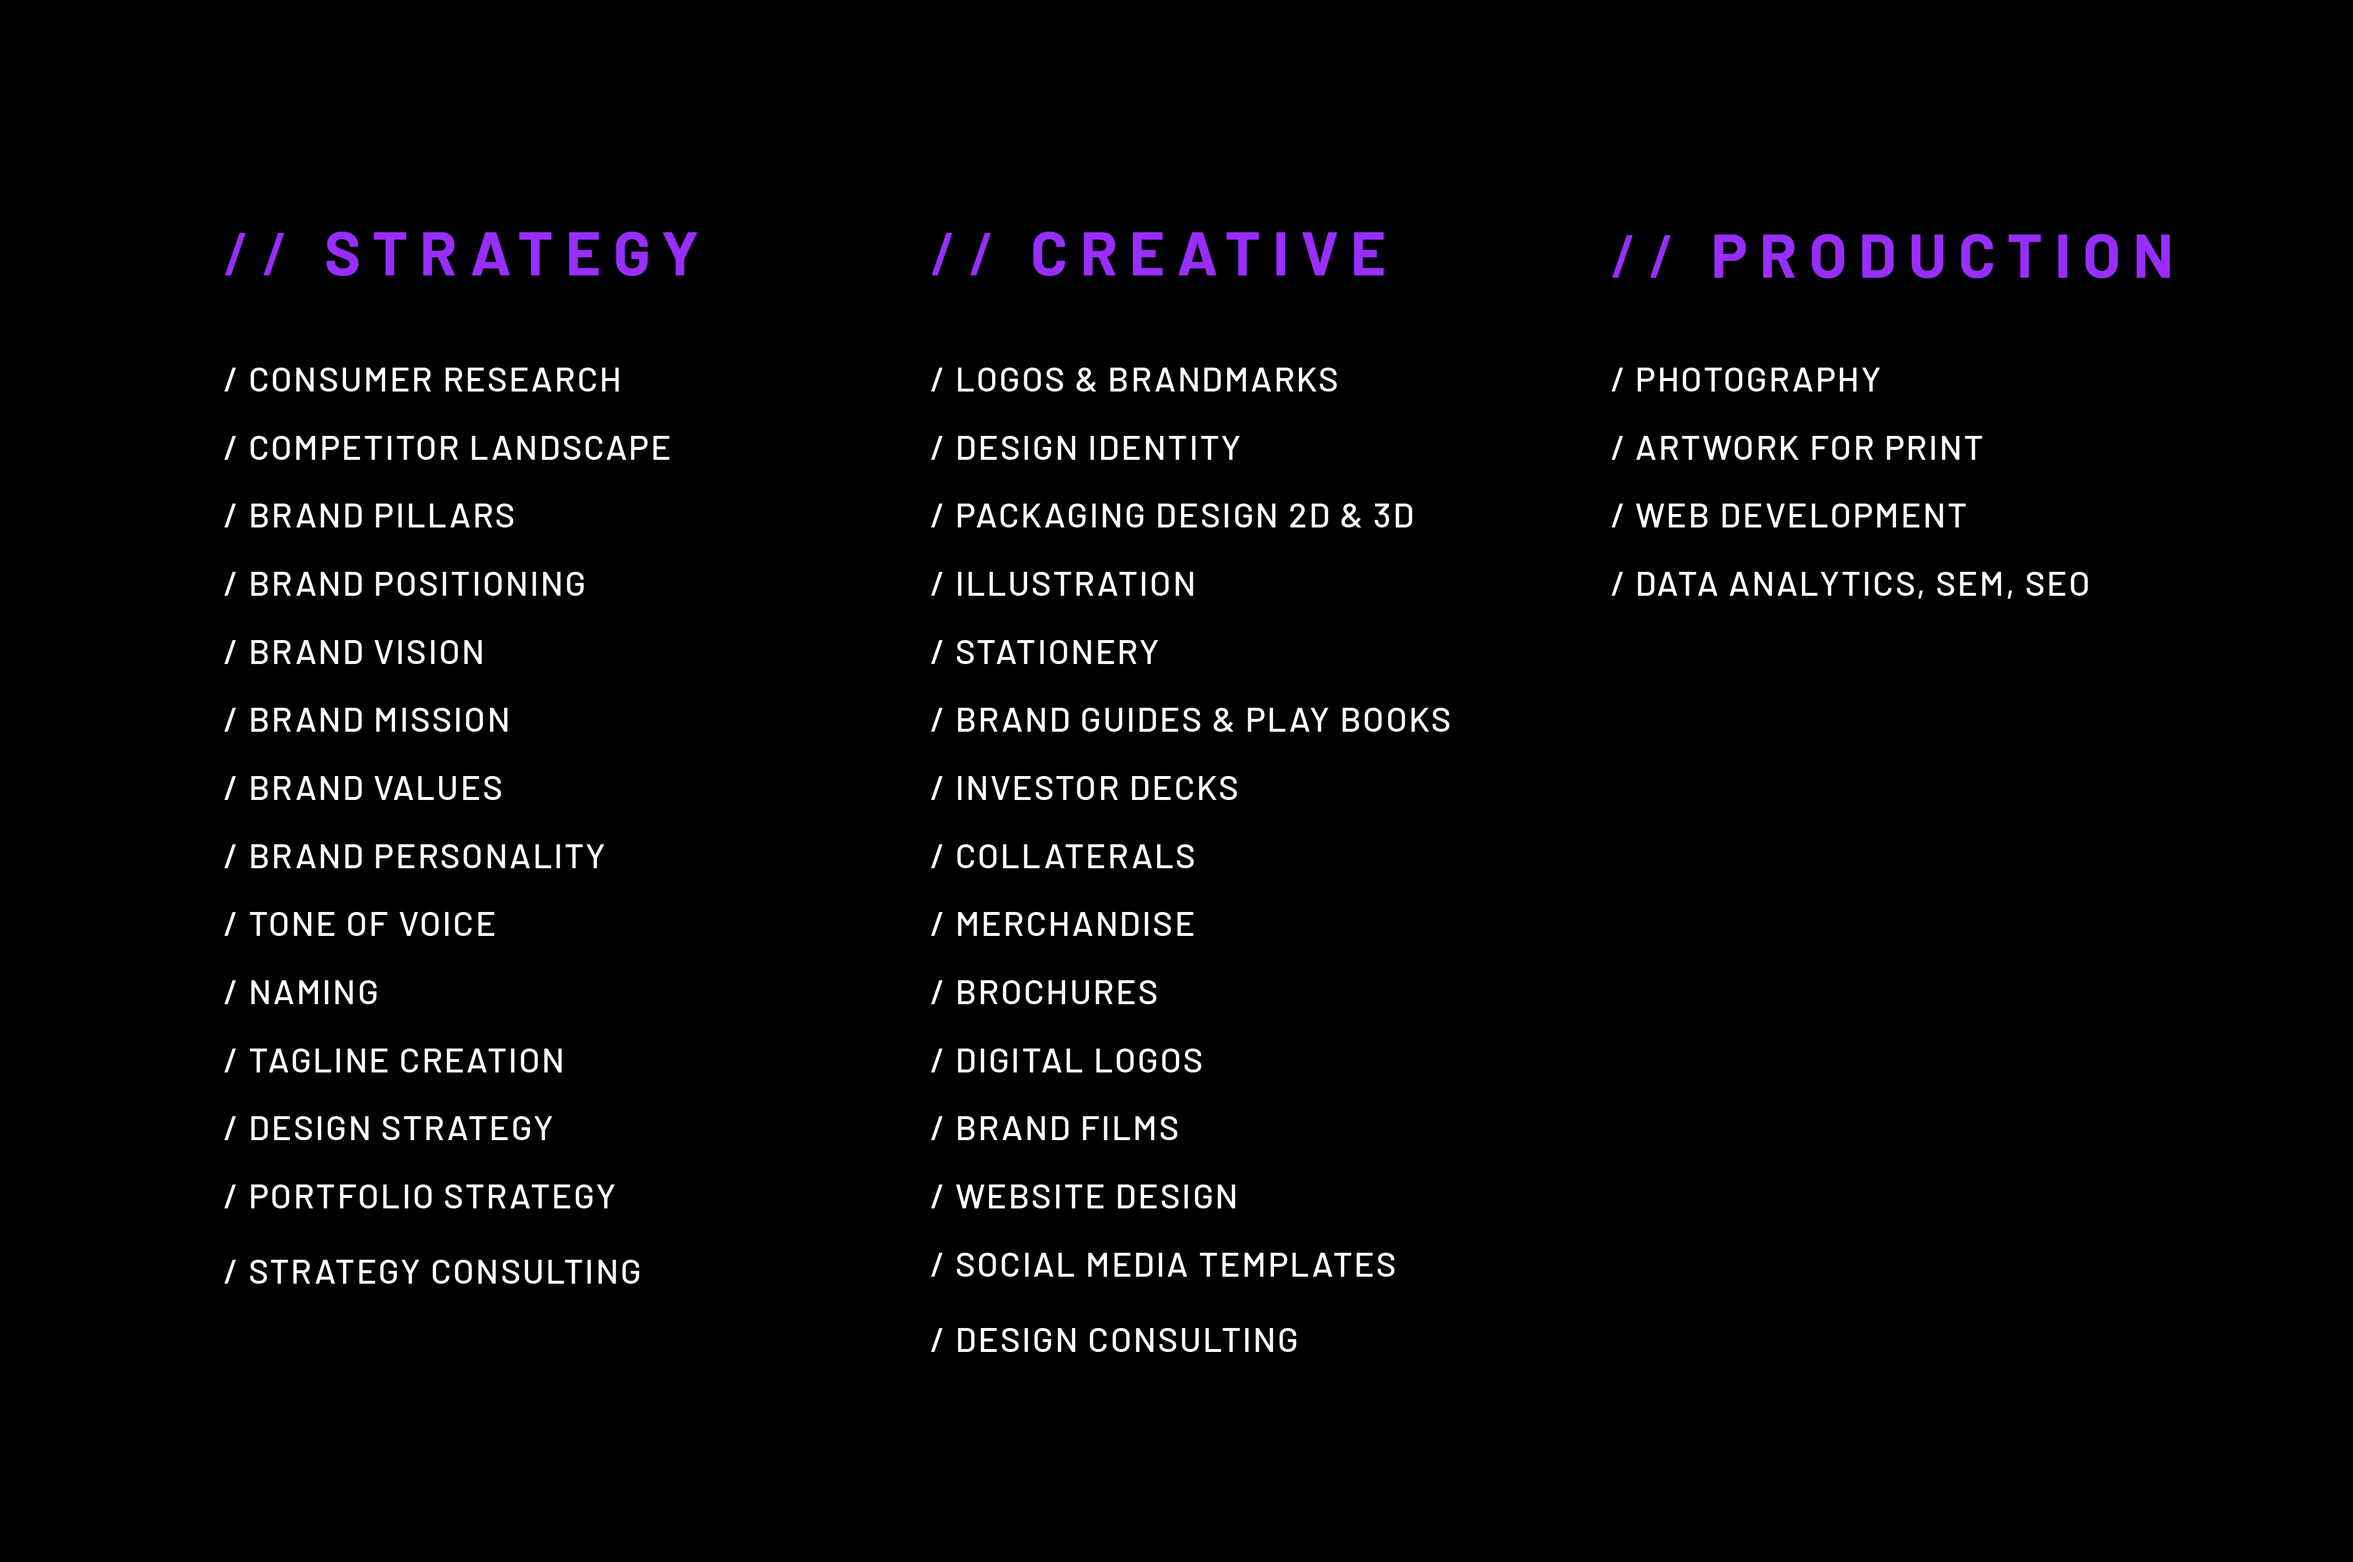
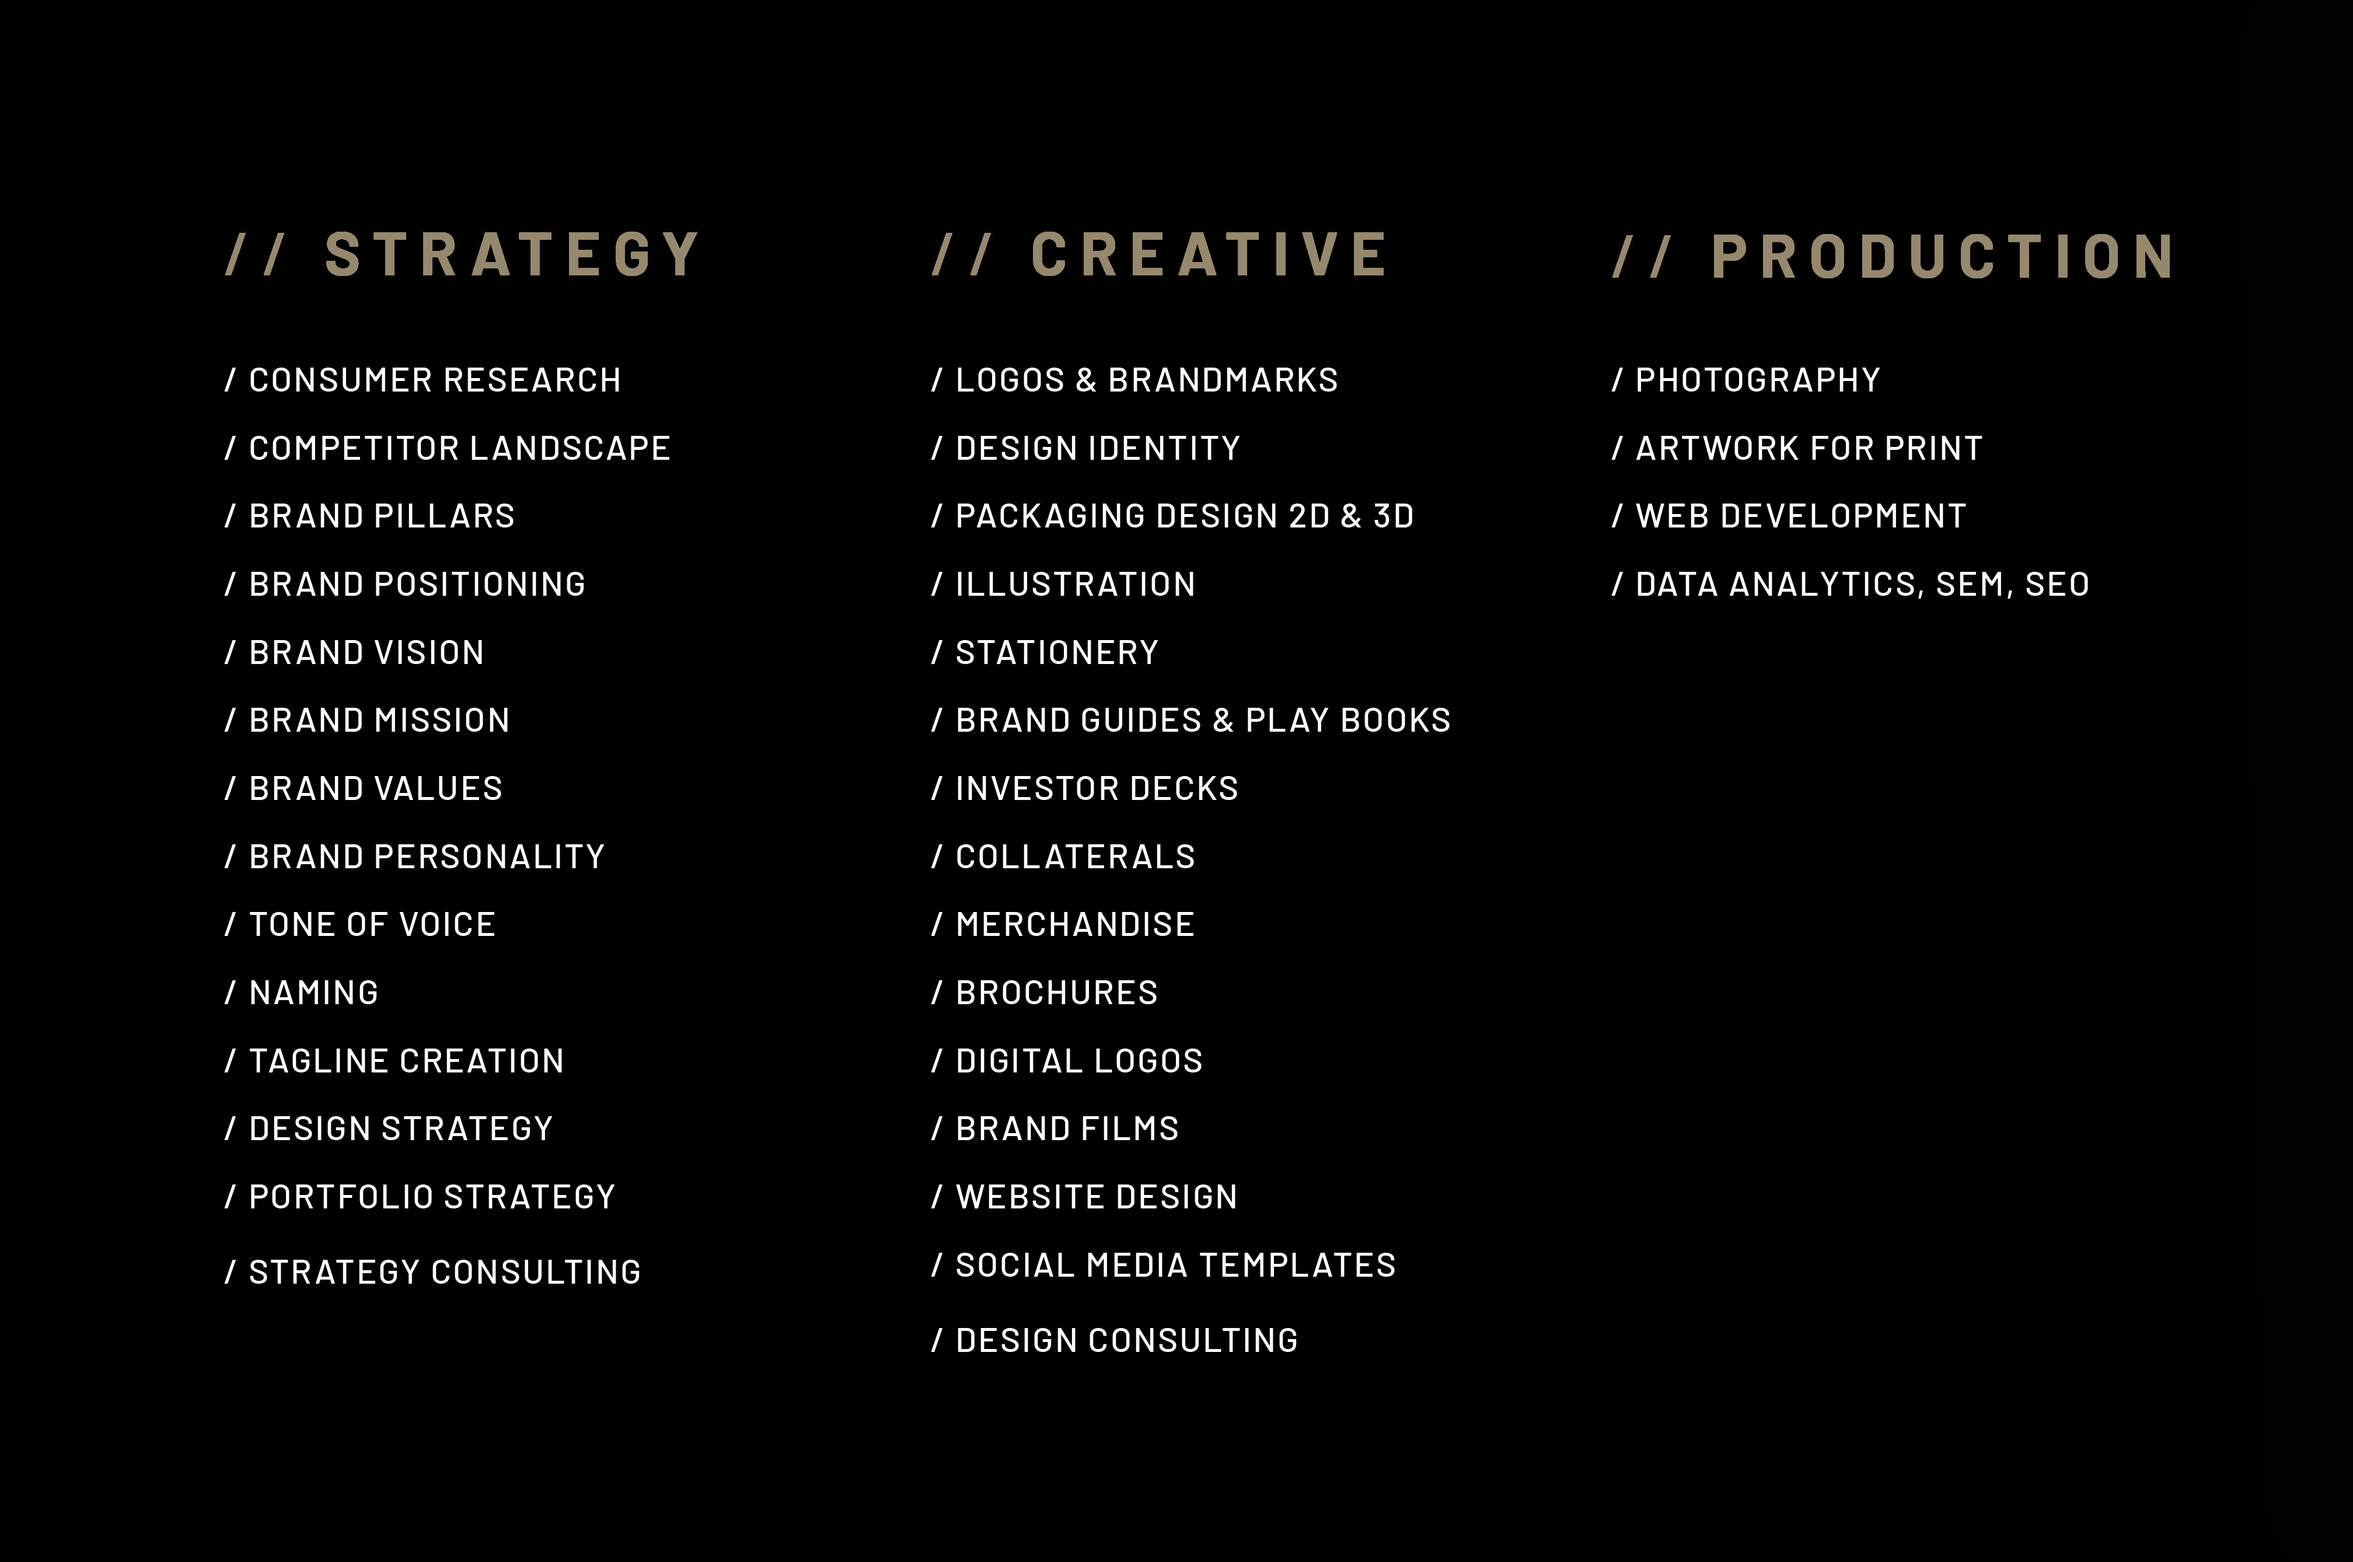
Changed colour scheme to brown

Changed region(s): [[0.6875, 0.124, 0.9375, 0.186], [0.0938, 0.124, 0.3125, 0.186], [0.4375, 0.124, 0.5938, 0.186]]

diff --git a/src/App.vue b/src/App.vue
@@ -115,11 +115,11 @@ function handleScrollUp() {
     :class="[innerWidth < 570 ? '!opacity-0' : '']" />
 
   <nav
-    class="fixed w-screen top-0 left-0 flex py-3 md:py-7 px-9 justify-between bg-black md:bg-beige items-center z-30 transition-all origin-top-left"
+    class="fixed w-screen top-0 left-0 flex py-3 md:py-7 px-9 justify-between bg-black md:bg-brown items-center z-30 transition-all origin-top-left"
     :class="[((scrollY > 50) && $route.path !== '/' && innerWidth > 768) || ($route.path !== '/' || innerWidth < 768) ? '!bg-opacity-100' : '!bg-opacity-0']">
     <a aria-label="Go to Landing Page" href="/">
       <picture
-        :class="[(opened && innerWidth > 768) || ((scrollY > 50) && $route.path !== '/' && innerWidth > 768) || ($route.path !== '/' && innerWidth > 768) ? 'brightness-0' : '']">
+        :class="[(opened && innerWidth > 768) || ((scrollY > 50) && $route.path !== '/' && innerWidth > 768) || ($route.path !== '/' && innerWidth > 768) ? '' : '']">
         <source srcset="/COMOMAYA_Logo_Beige_800x90.webp" type="image/webp">
         <source srcset="/COMOMAYA_Logo_Beige_800x90.png" type="image/png">
         <img src="/COMOMAYA_Logo_Beige_800x90.png" alt="COMOMAYA" class="logo transition-all duration-700 h-9 md:h-10 img-responsive origin-top-left w-[225.156px] md:w-[250.172px]" />
@@ -128,29 +128,29 @@ function handleScrollUp() {
     <button aria-label="Navigation" class="flex flex-col h-12 w-12 justify-center items-center group p-2 -m-2 transition-transform"
       @click="handleNav" @keydown="handleNav">
       <div :class="[
-  (opened ? 'rotate-45 translate-y-1.5 opacity-100 !bg-beige md:!bg-black' : 'opacity-100'),
+  (opened ? 'rotate-45 translate-y-1.5 opacity-100 !bg-beige md:!bg-beige' : 'opacity-100'),
   genericHamburgerLine,
-  (((scrollY > 50) && $route.path !== '/' && innerWidth > 768) || ($route.path !== '/' && innerWidth > 768) ? 'bg-black' : '')
+  (((scrollY > 50) && $route.path !== '/' && innerWidth > 768) || ($route.path !== '/' && innerWidth > 768) ? 'bg-beige' : '')
 ]" />
       <div :class="[
-  (opened ? 'opacity-0 !bg-beige md:!bg-black' : 'opacity-100'),
+  (opened ? 'opacity-0 !bg-beige md:!bg-beige' : 'opacity-100'),
   genericHamburgerLine,
-  (((scrollY > 50) && $route.path !== '/' && innerWidth > 768) || ($route.path !== '/' && innerWidth > 768) ? 'bg-black' : '')
+  (((scrollY > 50) && $route.path !== '/' && innerWidth > 768) || ($route.path !== '/' && innerWidth > 768) ? 'bg-beige' : '')
 ]" />
       <div :class="[
-  (opened ? '-rotate-45 -translate-y-1.5 opacity-100 !bg-beige md:!bg-black' : 'opacity-100'),
+  (opened ? '-rotate-45 -translate-y-1.5 opacity-100 !bg-beige md:!bg-beige' : 'opacity-100'),
   genericHamburgerLine,
-  (((scrollY > 50) && $route.path !== '/' && innerWidth > 768) || ($route.path !== '/' && innerWidth > 768) ? 'bg-black' : '')
+  (((scrollY > 50) && $route.path !== '/' && innerWidth > 768) || ($route.path !== '/' && innerWidth > 768) ? 'bg-beige' : '')
 ]" />
     </button>
   </nav>
 
   <transition name="fly">
     <nav v-show="opened"
-      class="moreNav bg-beige w-screen fixed left-0 top-0 z-20 h-screen flex items-center md:justify-center flex-col">
+      class="moreNav bg-brown w-screen fixed left-0 top-0 z-20 h-screen flex items-center md:justify-center flex-col">
       <transition-group tag="ul" name="stagger-in" :style="{ '--total': links.length }" class="text-center mt-24 mb-8">
-        <li v-for="(link, i) in links" :key="i" :style="{ '--i': i }" class="font-bold my-10 md:my-5 text-3xl hover:text-active"
-          :class="[$route.path === `/${link}` ? 'text-active' : '']">
+        <li v-for="(link, i) in links" :key="i" :style="{ '--i': i }" class="font-bold my-10 md:my-5 text-3xl text-active hover:text-beige"
+          :class="[$route.path === `/${link}` ? 'text-beige' : '']">
           <a @click="handleNav" :href="whatisLink(link)" :aria-label="`Go to ${link}`">
             {{ link === '' ? 'home' : link }}
           </a>
@@ -158,11 +158,11 @@ function handleScrollUp() {
       </transition-group>
       <transition-group name="fade" tag="span" class="flex flex-col justify-center mb-10">
         <a key="ig" @click="handleNav" href="https://instagram.com/comomaya" aria-label="Open Comomaya's Instagram Page" target="_blank" rel="noopener noreferrer">
-          <font-awesome-icon :icon="['fab', 'square-instagram']" size="xl" class="mx-2 my-3 hover:text-active" />
+          <font-awesome-icon :icon="['fab', 'square-instagram']" size="xl" class="mx-2 my-3 text-beige hover:text-active" />
         </a>
         <a key="linkedin" @click="handleNav" href="https://www.linkedin.com/company/comomaya" aria-label="Open Comomaya's Linkedin Page" target="_blank"
           rel="noopener noreferrer">
-          <font-awesome-icon :icon="['fab', 'linkedin']" size="xl" class="mx-2 my-3 hover:text-active" />
+          <font-awesome-icon :icon="['fab', 'linkedin']" size="xl" class="mx-2 my-3 text-beige hover:text-active" />
         </a>
       </transition-group>
     </nav>
@@ -196,7 +196,7 @@ function handleScrollUp() {
   </router-view>
 
   <footer class="my-5 ml-10">
-    <p class="text-xs mix-blend-difference text-white">
+    <p class="text-xs text-beige">
       © 2023 COMOMAYA. All rights reserved.
     </p>
   </footer>

diff --git a/src/pages/about/index.vue b/src/pages/about/index.vue
@@ -98,7 +98,7 @@ onMounted(() => {
       brands, business owners and start-ups alike. To provide the highest quality of work, by engaging some of the best
       international talent there is, but without the exorbitant price tag that comes with hiring a top global agency. We are here to empower new business owners &amp; entrepreneurs with great design and powerful brands that tell a&nbsp;story…</p>
     </section>
-    <div class="bg-white">
+    <div class="bg-brown">
 
       <!--- RIDHI --->
 
@@ -139,7 +139,7 @@ onMounted(() => {
 
             <!--- SONALI --->
 
-        <section id="ourPeople" class="relative flex flex-col-reverse justify-center md:min-h-[40vh] my-12 lg:my-24 bg-beige md:flex-row">
+        <section id="ourPeople" class="relative flex flex-col-reverse justify-center md:min-h-[40vh] my-12 lg:my-24 py-16 bg-beige md:flex-row">
           <div class="md:w-2/3 my-auto px-5 md:px-16 md:pl-12 lg:pl-52">
             <!-- <span class="relative pt-16 md:mb-1 flex items-center"> -->
               <h3 class="text-active text-2xl pt-16 font-semibold tracking-widest md:text-right">
@@ -171,7 +171,7 @@ onMounted(() => {
 
         <!--- Nishaa Bhojwani --->
 
-        <section id="ourPeople" class="relative flex flex-col-reverse justify-center md:min-h-[40vh] my-12 lg:my-24 bg-beige md:flex-row-reverse">
+        <section id="ourPeople" class="relative flex flex-col-reverse justify-center md:min-h-[40vh] py-16 my-12 lg:my-24 bg-beige md:flex-row-reverse">
           <div class="md:w-2/3 my-auto px-5 md:px-16 md:pr-12 lg:pr-52">
               <h3 class="text-active text-2xl pt-16 font-semibold tracking-widest text-left">
                 NISHAA&nbsp;BHOJWANI
@@ -328,10 +328,10 @@ onMounted(() => {
     </video>
     <h3 class="text-beige text-base md:text-xl font-semibold tracking-widest text-center my-16">FOLLOW US ON INSTAGRAM&nbsp;&amp;&nbsp;LINKEDIN</h3>
     <a class="z-10" key="ig" href="https://instagram.com/comomaya" aria-label="Open Comomaya's Instagram Page" target="_blank" rel="noopener noreferrer">
-      <font-awesome-icon :icon="['fab', 'square-instagram']" size="xl" class="mx-2 my-3 text-active" />
+      <font-awesome-icon :icon="['fab', 'square-instagram']" size="xl" class="mx-2 my-3 text-beige" />
     </a>
     <a class="z-10" key="linkedin" href="https://www.linkedin.com/company/comomaya" aria-label="Open Comomaya's Linkedin Page" target="_blank" rel="noopener noreferrer">
-      <font-awesome-icon :icon="['fab', 'linkedin']" size="xl" class="mx-2 my-3 text-active" />
+      <font-awesome-icon :icon="['fab', 'linkedin']" size="xl" class="mx-2 my-3 text-beige" />
     </a>
     </section>
   </main>

diff --git a/src/pages/work/index.vue b/src/pages/work/index.vue
@@ -94,6 +94,7 @@
         })
       }
     }
+    gsap.to('html', { backgroundColor: "black" })
   })
 
   useHead({
@@ -108,12 +109,13 @@
   })
 
   onBeforeUnmount(() => {
+    gsap.to('html', {backgroundColor: "theme(colors.brown)"})
     window.removeEventListener('resize', resize)
   })
 </script>
 
 <template>
-  <main class="min-h-screen flex justify-center py-32 bg-beige z-0 relative mx-10 md:mx-28 md:justify-start">
+  <main class="min-h-screen flex justify-center py-32 bg-black text-beige z-0 relative mx-10 md:mx-28 md:justify-start">
     <img
       :src="`${imgSrc}?auto=format`"
 			:srcset="`${imgSrc}?w=1024&auto=format 2048w,

diff --git a/src/style.scss b/src/style.scss
@@ -8,7 +8,7 @@
 }
 
 html {
-  @apply bg-beige;
+  @apply bg-brown;
   scroll-behavior: smooth;
   -webkit-font-smoothing: antialiased;
 	-moz-osx-font-smoothing: grayscale;
